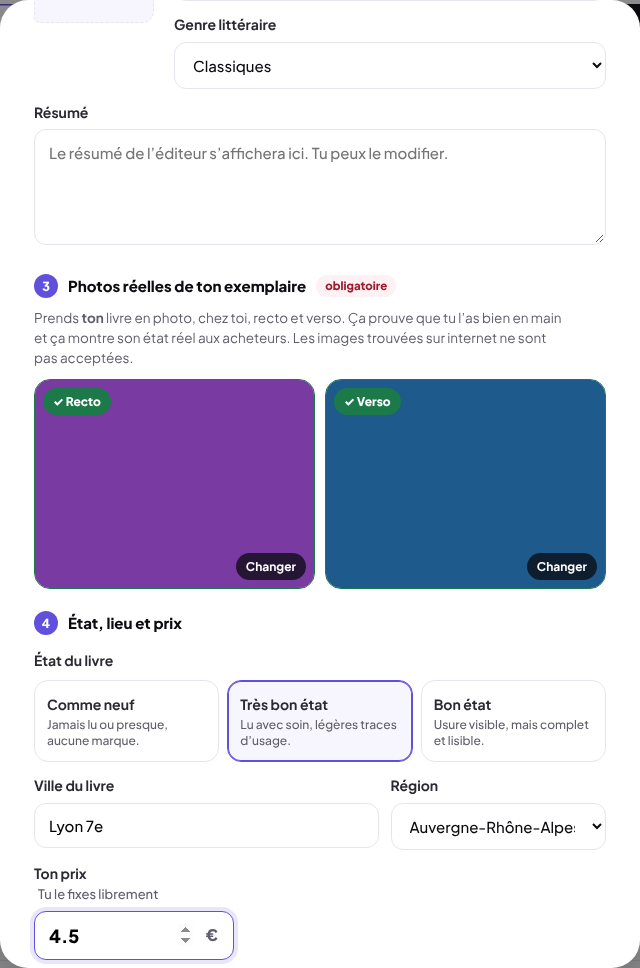
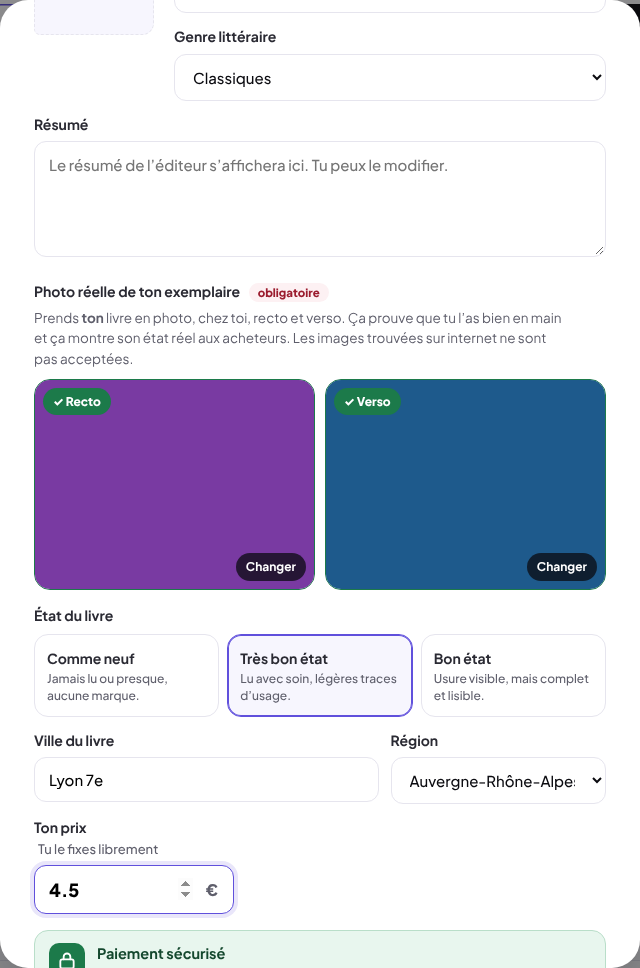
Vendre un livre : structure d'origine conservée, avec scan, ISBN, saisie manuelle, photos réelles et paiement sécurisé
Claude-Session: https://claude.ai/code/session_01EPa3evC84KLMU14gb8iTX3

diff --git a/index.html b/index.html
@@ -735,9 +735,7 @@ footer nav{flex-wrap:wrap;gap:10px 24px}
 .chip-on span{margin-left:4px;opacity:.8;font-weight:700}
 .chip-all[aria-pressed="false"]{border-color:var(--maj-l);color:var(--maj-d)}
 /* Vendre un livre : 3 méthodes, photos réelles, paiement sécurisé */
-.sell-k{display:flex;align-items:center;gap:10px;margin:22px 0 10px!important;font-weight:800;font-size:15px;color:var(--ink)!important}
-.sell-k i{flex:none;width:24px;height:24px;border-radius:50%;background:var(--maj);color:#fff;display:grid;place-items:center;font-style:normal;font-size:12.5px}
-.sell-k .req{font-size:11.5px;font-weight:800;color:#9B1C2E;background:#FDF1F3;border-radius:999px;padding:2px 9px}
+.req{font-size:11.5px;font-weight:800;color:#9B1C2E;background:#FDF1F3;border-radius:999px;padding:2px 9px}
 .sm-grid{display:grid;grid-template-columns:1fr 1fr;gap:10px}
 .sm-card{display:flex;flex-direction:column;gap:8px;border:1.5px solid var(--line);border-radius:16px;padding:14px;background:#fff;text-align:left}
 .sm-scan{cursor:pointer;flex-direction:row;align-items:center;font:inherit;color:var(--ink);transition:border-color .2s,background .2s,transform .2s}
@@ -752,6 +750,8 @@ footer nav{flex-wrap:wrap;gap:10px 24px}
 .sm-links{display:flex;flex-direction:column;align-items:flex-start;gap:4px}
 .modal #manualBtn{font-size:14px}
 .sm-sub{color:var(--muted)!important;font-weight:600!important}
+.modal .ph-label{margin-top:16px}
+.req{margin-left:6px}
 .ph-help{font-size:13.5px!important;margin:0 0 10px!important;line-height:1.5}
 .ph-grid{display:grid;grid-template-columns:1fr 1fr;gap:10px}
 .modal .ph-slot{position:relative;margin:0;aspect-ratio:4/3;border:1.5px dashed #CFCAF6;border-radius:16px;background:var(--maj-xl);overflow:hidden;cursor:pointer;display:grid;place-items:center;transition:border-color .2s,transform .2s}
@@ -1179,18 +1179,15 @@ footer nav{flex-wrap:wrap;gap:10px 24px}
   <button class="icon x" type="button" data-close aria-label="Fermer"><svg width="16" height="16" viewBox="0 0 24 24" fill="none" stroke="currentColor" stroke-width="2.6" stroke-linecap="round"><path d="M6 6l12 12M18 6 6 18"/></svg></button>
   <img src="mark.png" alt="">
   <h2 id="sTitle">Vendre un livre</h2>
-  <p>Trois façons d’ajouter ton livre&nbsp;: on remplit la fiche pour toi, tu ajoutes tes photos, ton prix, et c’est en ligne.</p>
+  <p>Scanne le code-barres ou entre l’ISBN&nbsp;: on remplit la fiche pour toi. Il ne te reste qu’à ajouter tes photos, choisir l’état et ton prix.</p>
   <form id="sellForm" novalidate>
-    <p class="sell-k"><i>1</i>Trouve ton livre</p>
-    <div class="sm-grid">
-      <button class="sm-card sm-scan" type="button" id="scanBtn">
-        <span class="sm-ico" aria-hidden="true"><svg width="22" height="22" viewBox="0 0 24 24" fill="none" stroke="currentColor" stroke-width="2.2" stroke-linecap="round"><path d="M3 7V5a2 2 0 0 1 2-2h2M17 3h2a2 2 0 0 1 2 2v2M21 17v2a2 2 0 0 1-2 2h-2M7 21H5a2 2 0 0 1-2-2v-2M7 8v8M10 8v8M13 8v8M17 8v8"/></svg></span>
-        <span class="sm-t"><b>Scanner le code-barres</b><small>Avec la caméra de ton téléphone</small></span>
+    <label for="isbn">Entrer le code ISBN manuellement <span class="hint">10 ou 13 chiffres, au dos du livre, sous le code-barres</span></label>
+    <div class="isbn-row">
+      <input id="isbn" inputmode="numeric" autocomplete="off" placeholder="Ex. 9782070612758" aria-describedby="isbnStatus">
+      <button class="btn dark" type="button" id="scanBtn">
+        <svg width="16" height="16" viewBox="0 0 24 24" fill="none" stroke="currentColor" stroke-width="2.2" stroke-linecap="round" aria-hidden="true"><path d="M3 7V5a2 2 0 0 1 2-2h2M17 3h2a2 2 0 0 1 2 2v2M21 17v2a2 2 0 0 1-2 2h-2M7 21H5a2 2 0 0 1-2-2v-2M7 8v8M10 8v8M13 8v8M17 8v8"/></svg>
+        Scanner le code-barres
       </button>
-      <div class="sm-card sm-isbn">
-        <label for="isbn"><b>Entrer le code ISBN manuellement</b><small>10 ou 13 chiffres, au dos du livre</small></label>
-        <input id="isbn" inputmode="numeric" autocomplete="off" placeholder="Ex. 9782070612758" aria-describedby="isbnStatus">
-      </div>
     </div>
     <p class="isbn-status" id="isbnStatus" aria-live="polite"></p>
     <div class="scanner" id="scanner" hidden>
@@ -1200,13 +1197,11 @@ footer nav{flex-wrap:wrap;gap:10px 24px}
       <button class="btn white" type="button" id="scanStop">Arrêter</button>
     </div>
     <div class="sm-links">
+      <button class="photo-link" type="button" id="photoBtn">Pas de caméra en direct&nbsp;? Prends le code-barres en photo</button>
       <button class="photo-link" type="button" id="manualBtn">Livre ancien sans code-barres&nbsp;? Remplir manuellement</button>
-      <button class="photo-link sm-sub" type="button" id="photoBtn">Pas de caméra en direct&nbsp;? Prends le code-barres en photo</button>
     </div>
     <input type="file" id="scanFile" accept="image/*" capture="environment" hidden>
 
-    <div id="sellDetails" hidden>
-    <p class="sell-k"><i>2</i>Vérifie la fiche</p>
     <div class="book">
       <div class="cover-box" id="coverBox"><img id="coverImg" alt="" hidden><span id="coverPh">La couverture apparaîtra ici</span></div>
       <div>
@@ -1217,14 +1212,13 @@ footer nav{flex-wrap:wrap;gap:10px 24px}
     </div>
     <label for="bResume">Résumé</label><textarea id="bResume" rows="4" maxlength="5000" placeholder="Le résumé de l’éditeur s’affichera ici. Tu peux le modifier."></textarea>
 
-    <p class="sell-k"><i>3</i>Photos réelles de ton exemplaire <span class="req">obligatoire</span></p>
+    <label class="ph-label">Photo réelle de ton exemplaire <span class="req">obligatoire</span></label>
     <p class="ph-help">Prends <b>ton</b> livre en photo, chez toi, recto et verso. Ça prouve que tu l’as bien en main et ça montre son état réel aux acheteurs. Les images trouvées sur internet ne sont pas acceptées.</p>
     <div class="ph-grid">
       <label class="ph-slot" id="phRectoBox" data-k="Recto"><input type="file" id="phRecto" accept="image/jpeg,image/png,image/webp,image/heic,image/heif" capture="environment"><img id="phRectoImg" alt="Photo recto de ton exemplaire" hidden><span class="ph-ph"><svg width="26" height="26" viewBox="0 0 24 24" fill="none" stroke="currentColor" stroke-width="2" stroke-linecap="round" stroke-linejoin="round" aria-hidden="true"><path d="M4 8h3l2-3h6l2 3h3v11H4z"/><circle cx="12" cy="13" r="3.5"/></svg><b>Recto</b><small>La couverture</small></span></label>
       <label class="ph-slot" id="phVersoBox" data-k="Verso"><input type="file" id="phVerso" accept="image/jpeg,image/png,image/webp,image/heic,image/heif" capture="environment"><img id="phVersoImg" alt="Photo verso de ton exemplaire" hidden><span class="ph-ph"><svg width="26" height="26" viewBox="0 0 24 24" fill="none" stroke="currentColor" stroke-width="2" stroke-linecap="round" stroke-linejoin="round" aria-hidden="true"><path d="M4 8h3l2-3h6l2 3h3v11H4z"/><circle cx="12" cy="13" r="3.5"/></svg><b>Verso</b><small>Le dos du livre</small></span></label>
     </div>
 
-    <p class="sell-k"><i>4</i>État, lieu et prix</p>
     <fieldset class="cond">
       <legend>État du livre</legend>
       <div class="cond-opts">
@@ -1241,7 +1235,6 @@ footer nav{flex-wrap:wrap;gap:10px 24px}
     <label for="bPrice">Ton prix <span class="hint">Tu le fixes librement</span></label>
     <div class="price-in"><input id="bPrice" type="number" inputmode="decimal" min="0.5" max="999" step="0.01" placeholder="0,00"><span aria-hidden="true">€</span></div>
     <div class="safe-pay"><span class="sp-ico" aria-hidden="true"><svg width="20" height="20" viewBox="0 0 24 24" fill="none" stroke="currentColor" stroke-width="2.2" stroke-linecap="round" stroke-linejoin="round"><rect x="4" y="10" width="16" height="11" rx="2.5"/><path d="M8 10V7a4 4 0 0 1 8 0v3"/></svg></span><p><b>Paiement sécurisé</b>Tu reçois <b>100&nbsp;% de ton prix</b> dès que l’acheteur confirme la réception. Aucun frais pour toi&nbsp;: la Protection Acheteur est payée par l’acheteur.</p></div>
-    </div>
 
     <p class="sell-note" id="sellNote" hidden></p>
     <p class="form-msg" id="sellMsg" role="alert"></p>
@@ -1548,7 +1541,7 @@ function setCover(url){
   img.onerror=function(){img.hidden=true;$("coverPh").hidden=false;$("coverPh").textContent="Pas de couverture trouvée";$("coverBox").classList.remove("has")};
   img.src=url;
 }
-function showDetails(){$("sellDetails").hidden=false}
+function showDetails(){}
 function fill(b,isbn){showDetails();
   $("bTitle").value=b.titre||"";$("bAuthor").value=b.auteur||"";$("bResume").value=b.resume||"";
   var g=mapGenre(b.categories);$("bGenre").value=g;
@@ -1659,7 +1652,7 @@ function sellNote(){
 function resetSell(){
   $("sellForm").reset();lastIsbn=null;lookupSeq++;isbnStatus("");setMsg("sellMsg","");
   setCover(null);$("coverPh").textContent="La couverture apparaîtra ici";
-  $("sellDetails").hidden=true;resetPhotos();
+  resetPhotos();
 }
 /* Méthode 3 : livre ancien sans code-barres */
 $("manualBtn").addEventListener("click",function(){stopScan();lastIsbn=null;lookupSeq++;$("isbn").value="";
@@ -1711,7 +1704,6 @@ $("sellForm").addEventListener("submit",async function(e){
   var raw=$("isbn").value.trim(),isbn=validIsbn(raw);
   var prix=Math.round(parseFloat(String($("bPrice").value).replace(",","."))*100)/100;
   if(raw&&!isbn)return setMsg("sellMsg","L’ISBN n’est pas valide. Corrige-le, ou clique sur « Remplir manuellement ».","err");
-  if($("sellDetails").hidden)return setMsg("sellMsg","Commence par scanner le code-barres, entrer l’ISBN ou remplir la fiche manuellement.","err");
   if(!titre){$("bTitle").focus();return setMsg("sellMsg","Indique le titre du livre.","err")}
   if(!genre){$("bGenre").focus();return setMsg("sellMsg","Choisis le genre littéraire.","err")}
   if(!sellPhotos.recto||!sellPhotos.verso){["recto","verso"].forEach(function(k){if(!sellPhotos[k])$(k==="recto"?"phRectoBox":"phVersoBox").classList.add("need")});
